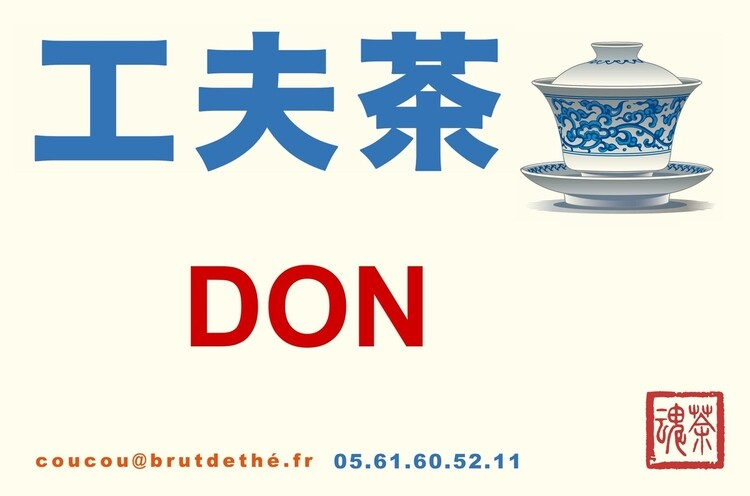
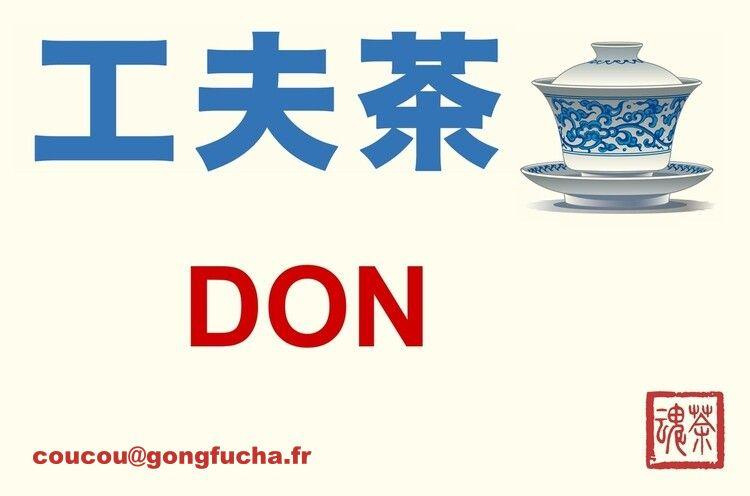
ajoute les dons

Changed region(s): [[0.0307, 0.9073, 0.7053, 0.9677]]

diff --git a/src/_assets/css/items-list.css b/src/_assets/css/items-list.css
@@ -13,6 +13,10 @@
     margin: 1rem 0;
 }
 
+.category-description a {
+    color: var(--secondary-bg);
+}
+
 .tags-list {
     border-bottom: var(--border-thin);
     flex-wrap: wrap;

diff --git a/src/products/don500_don-de-500.md b/src/products/don500_don-de-500.md
@@ -1,0 +1,23 @@
+---
+layout: _layouts/product_card.njk
+id: Don500
+name:
+    fr: don de 500 €
+    en: 500 € Donation
+mini_descr:
+    fr: Soutenez-nous avec un don de 500 €
+    en: Support us with a 500 €
+tags: ['produit', 'dons']
+description: 
+    fr: >
+        Faire un don de 500 € et échanger avec nous pour imaginer ensemble une contrepartie.
+    en: >
+        Make a 500 € donation and collaborate with us to design a personalized reward.
+photos:
+    - ticket-gongfucha.jpg
+price: 500.00
+stock: 30
+shipping_type: sans_envoi
+eleventyComputed:
+    title: '{{ tags }} - {{ name[page.lang] }}'
+---

diff --git a/src/products/don100_don-de-100.md b/src/products/don100_don-de-100.md
@@ -1,0 +1,23 @@
+---
+layout: _layouts/product_card.njk
+id: don100
+name:
+    fr: don de 100 €
+    en: 100 € Donation
+mini_descr:
+    fr: Soutenez-nous avec un don de 100 €
+    en: Support us with a 100 €
+tags: ['produit', 'dons']
+description: 
+    fr: >
+        Faire un don de 100 € et recevoir un kit de dégustation.
+    en: >
+        Make a 100 € donation and receive a tasting kit.
+photos:
+    - ticket-gongfucha.jpg
+price: 100.00
+stock: 30
+shipping_type: sans_envoi
+eleventyComputed:
+    title: '{{ tags }} - {{ name[page.lang] }}'
+---

diff --git a/src/products/don50_don-de-50.md b/src/products/don50_don-de-50.md
@@ -1,0 +1,23 @@
+---
+layout: _layouts/product_card.njk
+id: don50
+name:
+    fr: don de 50 €
+    en: 50 € Donation
+mini_descr:
+    fr: Soutenez-nous avec un don de 50 €
+    en: Support us with a 50 €
+tags: ['produit', 'dons']
+description: 
+    fr: >
+        Faire un don de 50 € et recevoir l'affiche du festival
+    en: >
+        Make a 50 € donation and receive the festival poster
+photos:
+    - ticket-gongfucha.jpg
+price: 50.00
+stock: 30
+shipping_type: sans_envoi
+eleventyComputed:
+    title: '{{ tags }} - {{ name[page.lang] }}'
+---

diff --git a/src/products/don15_don-de-15.md b/src/products/don15_don-de-15.md
@@ -1,0 +1,23 @@
+---
+layout: _layouts/product_card.njk
+id: don15
+name:
+    fr: don de 15 €
+    en: 15 € Donation
+mini_descr:
+    fr: Soutenez-nous avec un don de 15 €
+    en: Support us with a 15 € donation
+tags: ['produit', 'dons']
+description: 
+    fr: >
+        Faire un don de 15 €.
+    en: >
+        Make a 15 € donation.
+photos:
+    - ticket-gongfucha.jpg
+price: 15.00
+stock: 30
+shipping_type: sans_envoi
+eleventyComputed:
+    title: '{{ tags }} - {{ name[page.lang] }}'
+---

diff --git a/src/products/don5_don-de-5.md b/src/products/don5_don-de-5.md
@@ -1,0 +1,23 @@
+---
+layout: _layouts/product_card.njk
+id: don5
+name:
+    fr: don de 5 €
+    en: 5 € Donation
+mini_descr:
+    fr: Soutenez-nous avec un don de 5 €
+    en: Support us with a 5 € donation
+tags: ['produit', 'dons']
+description: 
+    fr: >
+        Faire un don de 5 €.
+    en: >
+        Make a 5 € donation.
+photos:
+    - ticket-gongfucha.jpg
+price: 5.00
+stock: 30
+shipping_type: sans_envoi
+eleventyComputed:
+    title: '{{ tags }} - {{ name[page.lang] }}'
+---
